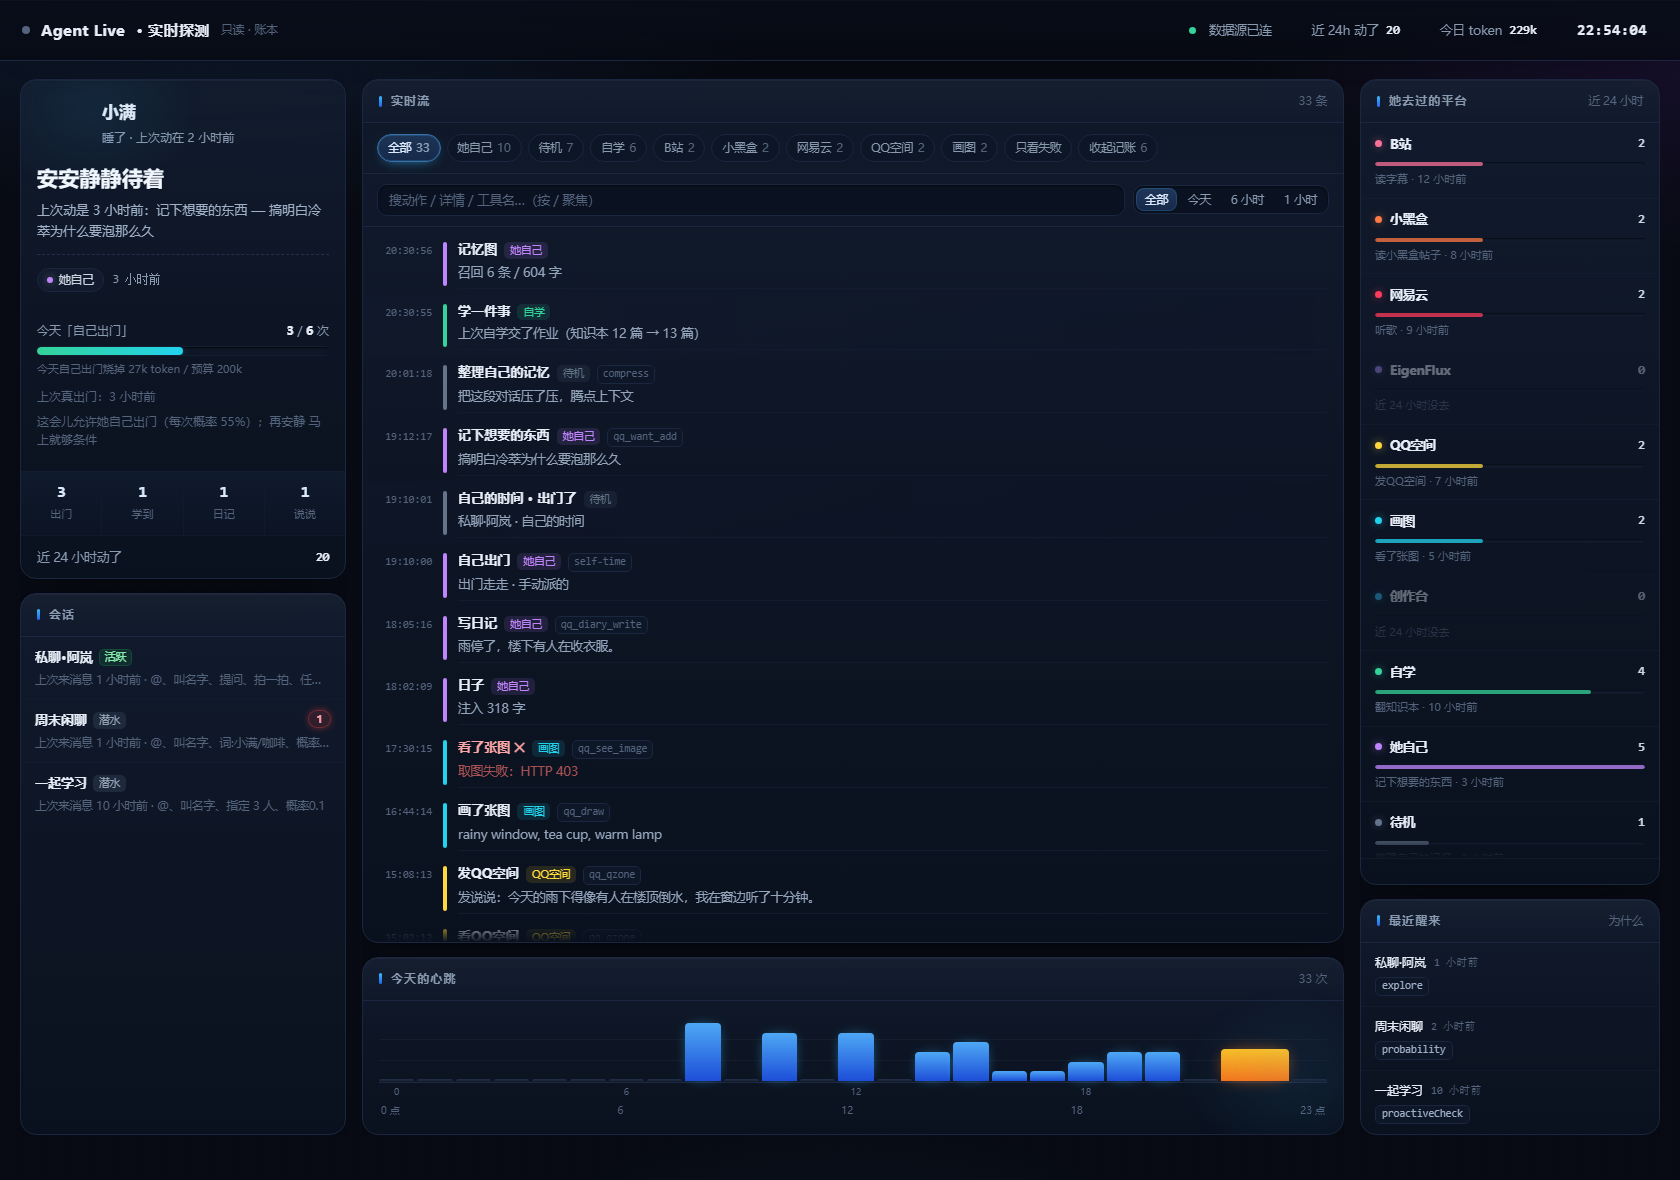
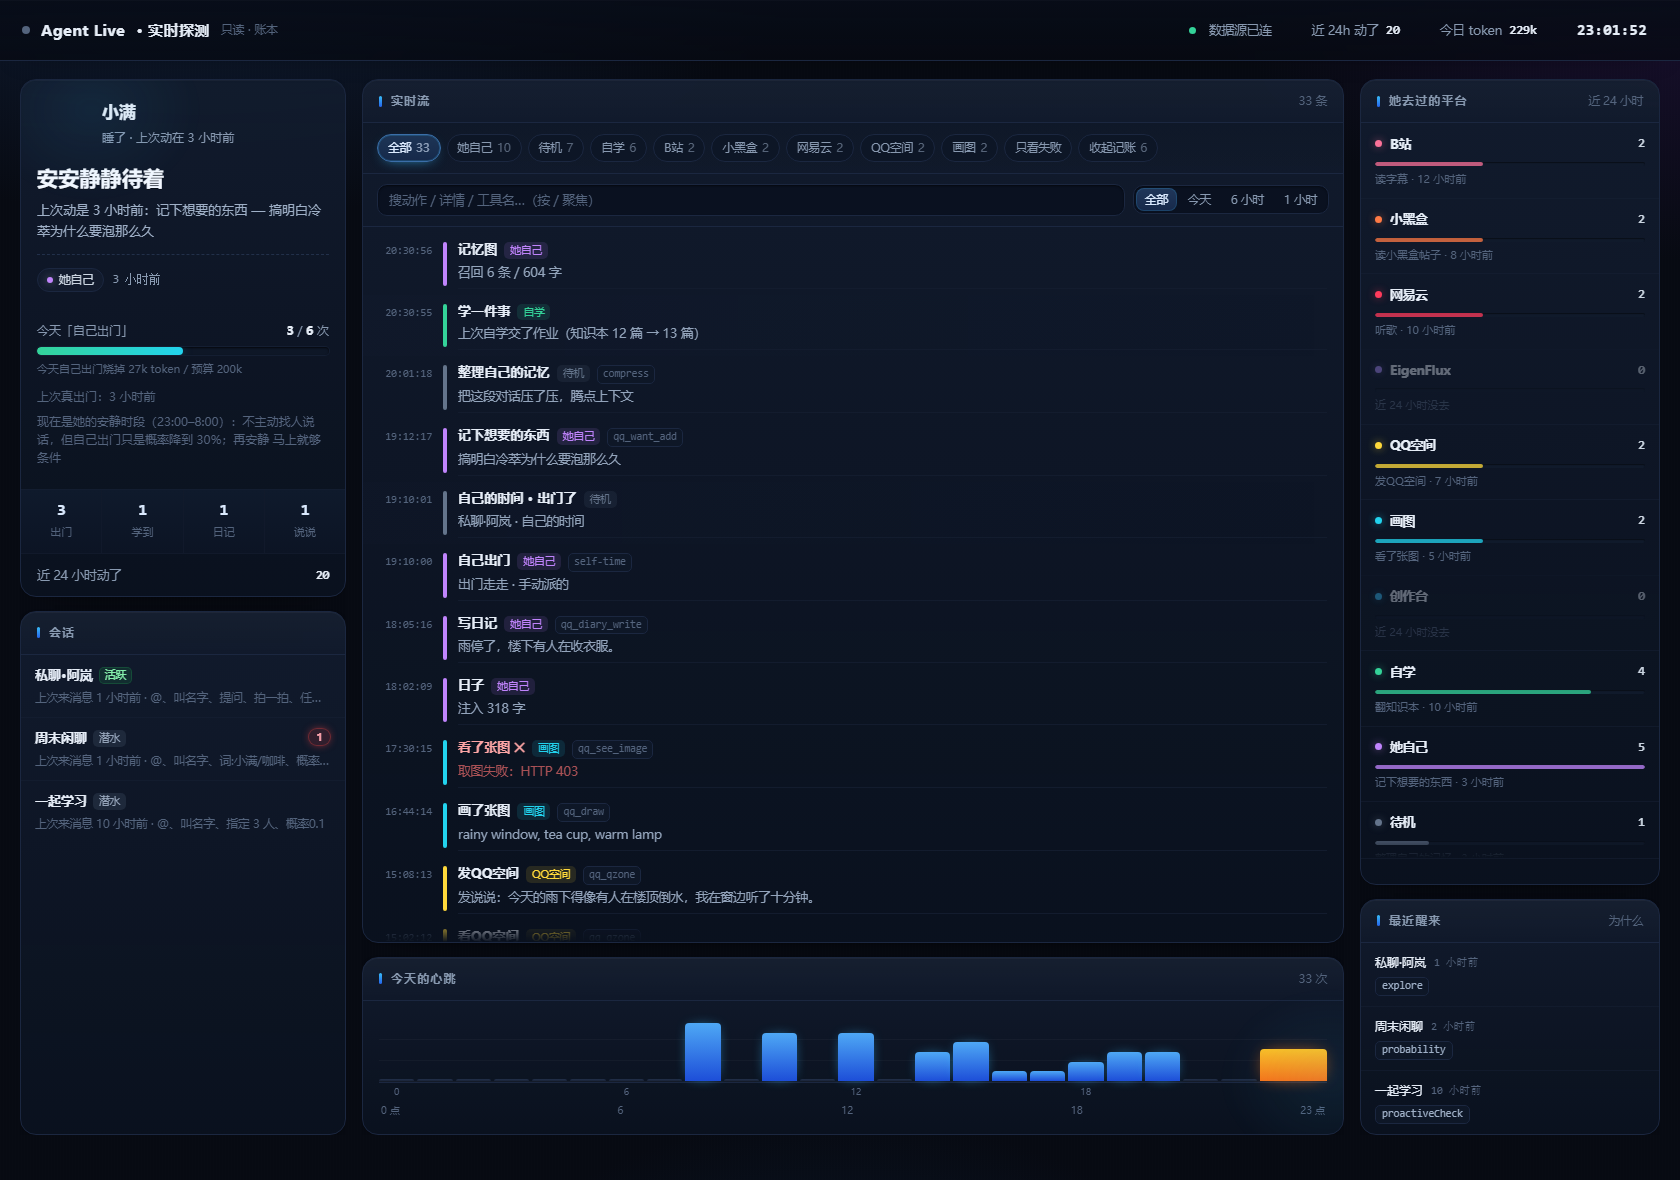
fix: 页面按当前目录算前缀，被插件挂在 /api/agent-live 下也能取到接口与头像
- 新增一行 BASE（当前目录的 pathname 去掉尾斜杠），snapshot / SSE / 头像都走它
- 独立跑时 BASE 为空串，行为不变
- 用本地 mock 前缀（/api/agent-live/ + /api/agent-live/api/*）实拍验证过
- 重新生成 demo 截图（假数据）

diff --git a/public/index.html b/public/index.html
@@ -462,7 +462,7 @@
     <div class="card">
       <div class="now">
         <div class="who">
-          <img class="ava" id="ava" src="/img/表情包/01-打招呼.png" alt=""
+          <img class="ava" id="ava" data-src="/img/表情包/01-打招呼.png" alt=""
                onerror="this.style.visibility='hidden'">
           <div>
             <div class="nm" id="agentName">她</div>
@@ -1042,6 +1042,13 @@ function renderCur(){
   }
 }
 
+// 页面可能被挂在 / 下，也可能被 DSH 插件挂在 /api/agent-live/ 下。
+// 用「当前目录」算前缀，接口和静态图就都跟着走，不用改一行路由。
+const BASE = (() => { try { return new URL('.', location.href).pathname.replace(/\/$/, ''); } catch { return ''; } })();
+
+// 头像也按前缀取（插件下是 /api/agent-live/img/...）
+try { const a = document.getElementById('ava'); if (a && a.dataset.src) a.src = BASE + a.dataset.src; } catch {}
+
 function syncRange(){
   for(const b of $('range').querySelectorAll('button')) b.classList.toggle('on', b.dataset.r === S.range);
 }
@@ -1085,7 +1092,7 @@ $('list').addEventListener('scroll', ()=>{
 });
 
 // ---- 启动 ----
-fetch('/api/snapshot').then(r=>r.json()).then(d=>{
+fetch(BASE + '/api/snapshot').then(r=>r.json()).then(d=>{
   S.events = d.events||[]; meta = d.meta||meta;
   renderFilters(); renderFeed(); renderMeta(); renderNow();
 });
@@ -1093,7 +1100,7 @@ fetch('/api/snapshot').then(r=>r.json()).then(d=>{
 // ---- 实时 ----
 let es = null;
 function connect(){
-  es = new EventSource('/api/stream');
+  es = new EventSource(BASE + '/api/stream');
   es.onopen = ()=>{ $('banner').classList.remove('on'); };
   es.onmessage = (ev) => {
     let m; try{ m = JSON.parse(ev.data); }catch{ return; }
